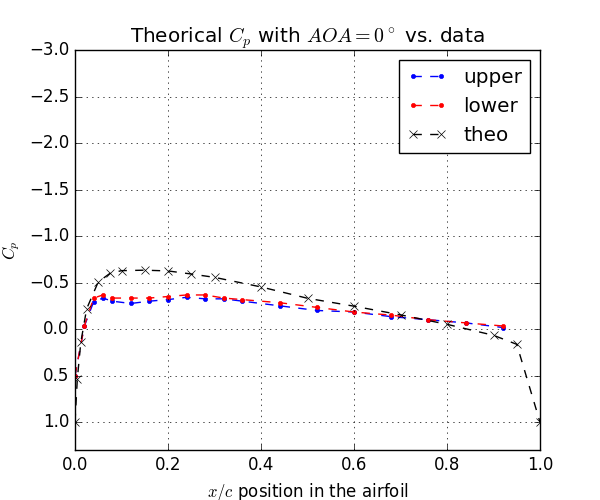
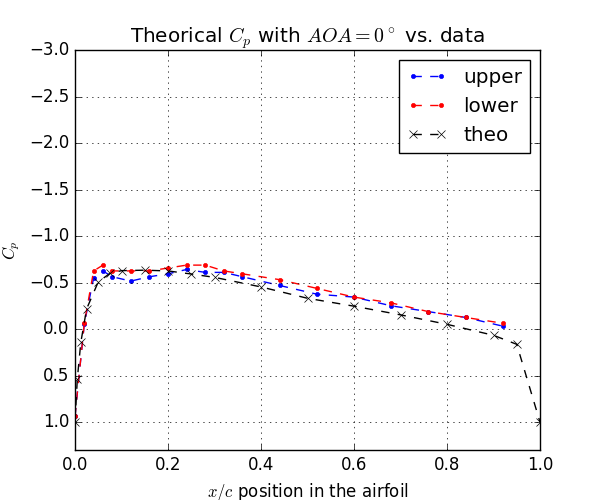
Yeaaaaaah

Changed region(s): [[0.15, 0.51, 0.48, 0.63], [0.39, 0.57, 0.84, 0.66], [0.12, 0.63, 0.15, 0.75]]

diff --git a/tunel.py b/tunel.py
@@ -23,7 +23,7 @@ class VoltagePlot(object):
         lines = []
 
         self.ax.set_xlim(0, 1)
-        self.ax.set_ylim(0, 17)
+        self.ax.set_ylim(0, 15)
 
         self.ax.set_title('Voltages with $AOA = {0}^\circ$'.format(aoa))
         self.ax.set_xlabel(r'$x/c$ position in the airfoil')
@@ -74,7 +74,7 @@ class CpPlot(object):
                              'data/naca0018-geometry.dat'), delimiter=' ').T
 
         self.ax1.set_xlim(0, 1)
-        self.ax1.set_ylim(1, -3)
+        self.ax1.set_ylim(1, -4)
 
         self.ax1.set_title("$C_{p}$ at $AOA = %s^\circ$" % (aoa))
         self.ax1.set_ylabel('$C_{p}$')
@@ -172,6 +172,12 @@ if __name__ == "__main__":
     tunel_data = data[::, :-1:]
     inf_data = data[::, -1]
 
+    # offset calibration
+    offset = np.amin(tunel_data[1::])
+    print(offset)
+    tunel_data[1::] -= offset
+    inf_data -= offset
+
     # plotting voltages and cp for different AOA
     l = [0, 7, 14, 21]
 
@@ -234,6 +240,12 @@ if __name__ == "__main__":
     f = os.path.join(os.path.dirname(__file__), 'data/naca0018at7.cp')
     data_lol = np.loadtxt(f, delimiter=',', dtype=float).T
 
+    l = [0, 7, 14, 21]
+    i = 7
+
+    cpu, cpl = calculate_cp(tunel_data[l.index(i) + 1],
+                tunel_data[l.index(i) + 5], inf_data[l.index(i) + 5])
+
     fig, ax = plt.subplots(figsize=(6, 5), dpi=100)
     ax.set_xlim(0.0, 1.0)
     ax.set_ylim(-3, 1.3)
@@ -249,9 +261,6 @@ if __name__ == "__main__":
     ax.plot(tunel_data[0], cpu, 'b.--', label='upper')
     ax.plot(tunel_data[0], cpl, 'r.--', label='lower')
 
-    l = [0, 7, 14, 21]
-    i = 3
-
     ii = int(data_lol.shape[1] / 2)
     ax.plot(data_lol[0, ii::], data_lol[1, ii:0:-1], 'k--', label='theo')
     ax.plot(data_lol[0, ii::], data_lol[1, ii::], 'k--')
@@ -259,7 +268,7 @@ if __name__ == "__main__":
     ax.legend(loc='upper right')
 
     plt.savefig(os.path.join(os.path.dirname(__file__),
-                'plots/compared-cp-at-aoa{0}'.format(21) + '.png'))
+                'plots/compared-cp-at-aoa{0}'.format(7) + '.png'))
 
     l = [0, 7, 14, 21]
     cl_a = []
